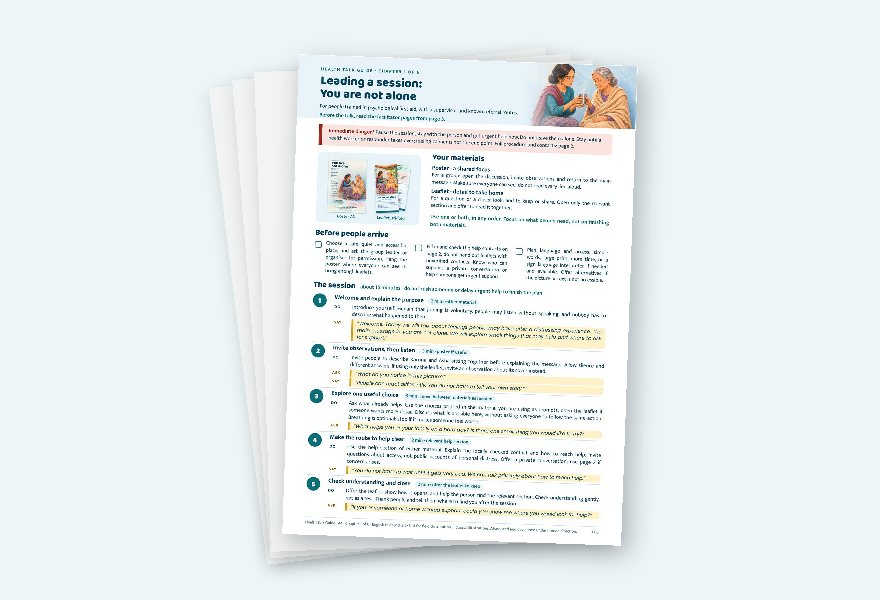
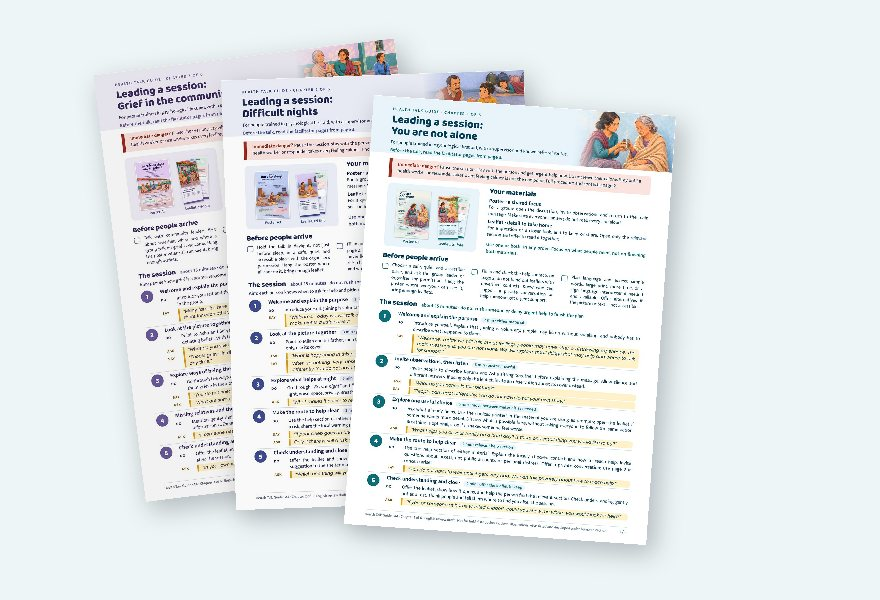
Overview mockups: three poster options on the wall, guides for Chapters 1 to 3 fanned
Claude-Session: https://claude.ai/code/session_01FeFBNtDnR6Tarxn2mMUM3N

Changed region(s): [[0.1227, 0.06, 0.7977, 0.96], [0.1534, 0.63, 0.1841, 0.66]]

diff --git a/index.html b/index.html
@@ -612,9 +612,9 @@ function overview(){
   </div>
 
   <div class="card"><h3 class="ov-s">Three products work together in every chapter</h3><div class="flow">
-    <div class="p"><img class="ill" src="assets/overview/mock-poster.jpg" alt="Chapter 1 poster shown on a wall" width="880" height="600" loading="lazy"><span class="tag">A3 · WALL</span><h4>Poster</h4>Read in seconds: the title and one painted scene. One message, small things to try, and where to get help.</div><div class="arrow">→</div>
+    <div class="p"><img class="ill" src="assets/overview/mock-poster.jpg" alt="The three Chapter 1 poster options, A, B and C, on a wall" width="880" height="600" loading="lazy"><span class="tag">A3 · WALL</span><h4>Poster</h4>Read in seconds: the title and one painted scene. One message, small things to try, and where to get help.</div><div class="arrow">→</div>
     <div class="p"><img class="ill" src="assets/overview/mock-leaflet.jpg" alt="Chapter 1 leaflet, folded in three and standing open, with its cover" width="880" height="600" loading="lazy"><span class="tag">A4 · TAKE HOME</span><h4>Leaflet</h4>Continues the same chapter: what people may notice, how to do each small thing, what can make things worse, and when to seek help.</div><div class="arrow">→</div>
-    <div class="p"><img class="ill" src="assets/overview/mock-guide.jpg" alt="Chapter 1 Health Talk Guide, page 1 on top of the other pages" width="880" height="600" loading="lazy"><span class="tag">A4 · FACILITATOR</span><h4>Health Talk Guide</h4>A 15-minute session in five steps: welcome, look at the picture together, what helps, when to ask for help, close. Sessions can link through the story: “Do you remember Karuna?”</div></div><p class="small" style="margin:10px 0 0">Examples from Chapter 1. Each chapter page shows its own poster, leaflet and guide.</p></div>
+    <div class="p"><img class="ill" src="assets/overview/mock-guide.jpg" alt="Health Talk Guides for Chapters 1, 2 and 3, fanned on a table" width="880" height="600" loading="lazy"><span class="tag">A4 · FACILITATOR</span><h4>Health Talk Guide</h4>A 15-minute session in five steps: welcome, look at the picture together, what helps, when to ask for help, close. Sessions can link through the story: “Do you remember Karuna?”</div></div><p class="small" style="margin:10px 0 0">Examples: the three Chapter 1 poster options, the Chapter 1 leaflet, and the guides for Chapters 1 to 3. Each chapter page shows its own products.</p></div>
 
   <div class="two"><div class="card"><h3 class="ov-s">Two layers of language</h3><div class="layer" style="background:#e8f4fa;margin-bottom:10px"><b>Poster and leaflet</b><br>Everyday words: “distressing experience”, “common reactions”, “small things that can help”.</div><div class="layer" style="background:#f2eef8"><b>Health Talk Guide</b><br>The word key for facilitators: what the plain words stand for, with clinical terms and sources.</div></div>
    <div class="card"><h3 class="ov-s">How products reach this page</h3><div class="pipe"><div><span class="tag">1</span><b>Draft</b>Made and checked in the working folders</div><div><span class="tag">2</span><b>Quality check</b>Content, safety and design</div><div><span class="tag">3</span><b>Approval</b>Approved by the coordination team</div><div><span class="tag">4</span><b>Posted here</b>For partner review and feedback</div></div></div></div>
